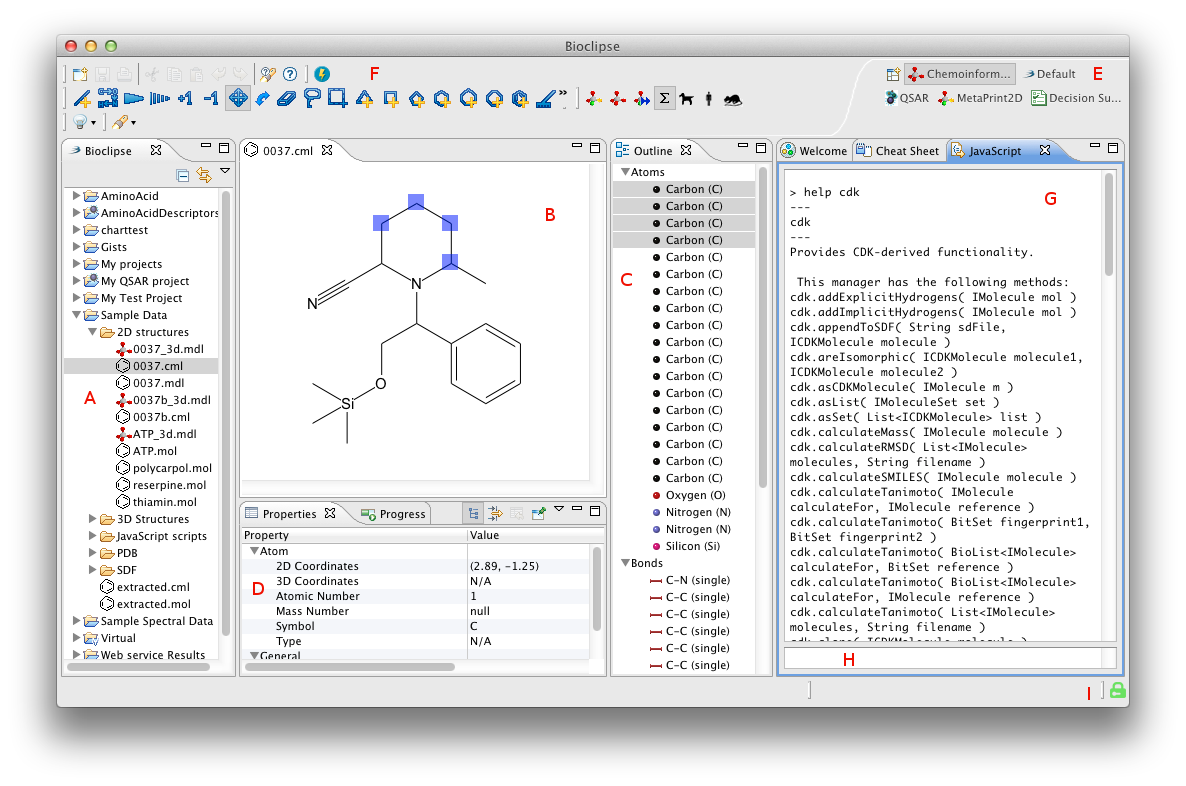
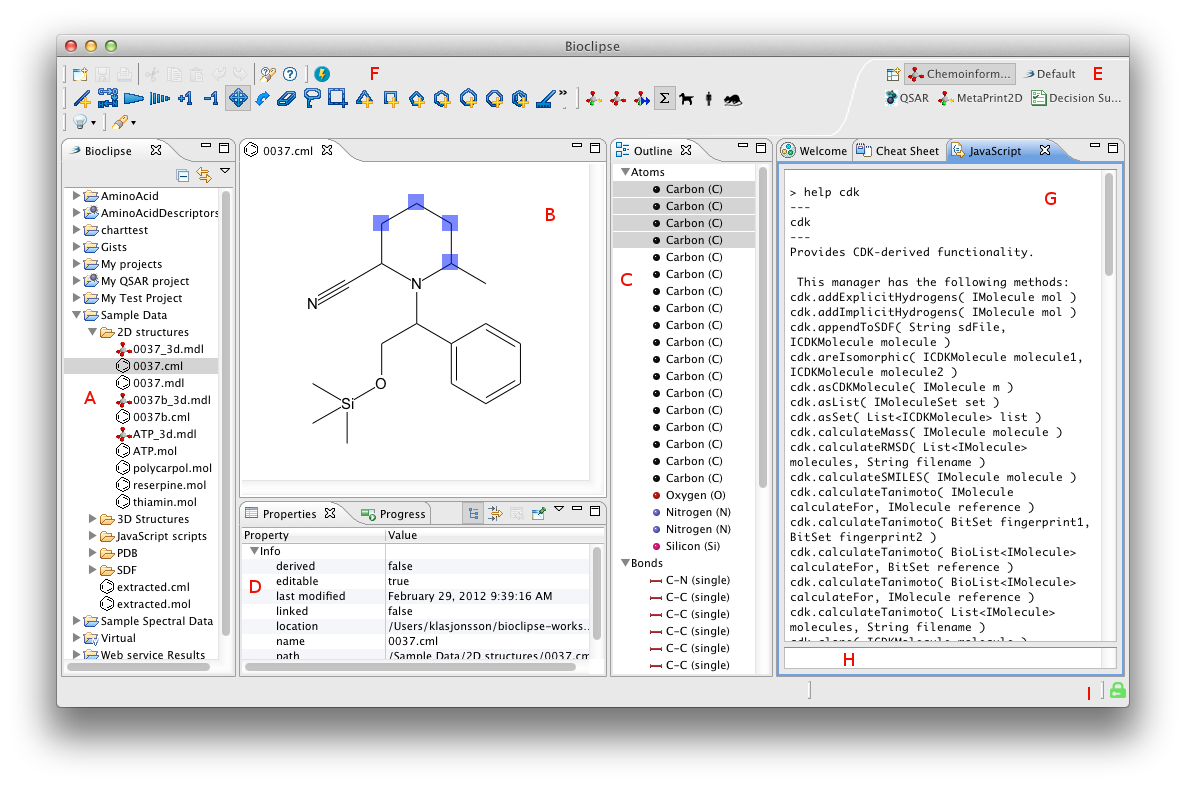
Removed the part about the 3D-view, updated the text and the image for the workbench overview help page

Changed region(s): [[0.1872, 0.6718, 0.4992, 0.855]]

diff --git a/plugins/net.bioclipse.ui/html/workbench/wb_overview.html b/plugins/net.bioclipse.ui/html/workbench/wb_overview.html
@@ -21,27 +21,14 @@
 </center>
 <p>
 <br>
-The Bioclipse Navigator (A) displays all projects in the workspace and allows for browsing all content. Double-click on a resource to open in an editor. In this example, a CML file with 2D coordinates has been double-clicked, and Bioclipse has opened the file in the JmolEditor (B). Click and hold mouse button while dragging in this editor to rotate molecule. The Outline (C) adapts to the current editor and displays all atoms in the file. Here 4 atoms has been selected in the Outline (hold down shift and click to select multiple entities) and are highlighted in blue in the Editor (B). The Properties view (D) display properties for, in this case, the  file selected in the Navigator (A). The Perspective Bar (E) allows for switching perspectives. Here the Cemoinformatics perspective is active. The Toolbar (F) displays common tasks for manipulating the files and the open Editor (like save, undo, redo etc). Views can be stacked on top of each other, like in (D) where the Progress view is located behind the Properties view. Just click the tab to bring a View to the front. The JavaScript Console (G) has an input field (H) where users can enter commands in JavaScript. The results of the command is echoed in the Text area above the input field. Here the JavaScript Console shows the result of the command &quot;help cdk&quot;, and lists the many commands available from the &quot;cdk&quot; namespace. The lower right corner contains a shortcut bar to access the many introductory resources of the Welcome page (I).
-
-<p>
-<br>
-<h2>Workbench parts for interactive 3D visualization</h2>
-<p>
-<br>
-
-<center>
-<img src="images/wb_jmol700.png">
-</center>
-<p>
-<br>
-
-Here, a file containing a molecule with 3D coordinates has been opened in the JChemPaint Editor (B). The Toolbar (F) now contains actions for editing and selecting in the 3D structure. Here, 4 atoms has been selected in the Outline (C) and the corresponding atoms are highlighted in the Editor (B) and properties of the selection are displayed in the Properties View (D).
-
-
-<p>
-<br>
-
-
+The Bioclipse Navigator (A) displays all projects in the workspace and allows for browsing all content. Double-click on a resource to open in an editor. In this example, a CML file with
+ 2D coordinates has been double-clicked, and Bioclipse has opened the file in the CMLEditor (B). The Outline (C) adapts to the current editor and displays all atoms in the file. 
+ Here 4 atoms has been selected in the Outline (hold down shift and click to select multiple entities) and are highlighted in blue in the Editor (B). The Properties view (D) display 
+ properties for, in this case, the  file selected in the Navigator (A). The Perspective Bar (E) allows for switching perspectives. Here the Chemoinformatics perspective is active. The 
+ Toolbar (F) displays common tasks for manipulating the files and the open Editor (like save, undo, redo etc). Views can be stacked on top of each other, like in (D) where the Progress 
+ view is located behind the Properties view. Just click the tab to bring a View to the front. The JavaScript Console (G) has an input field (H) where users can enter commands in 
+ JavaScript. The results of the command is echoed in the Text area above the input field. Here the JavaScript Console shows the result of the command &quot;help cdk&quot;, and lists 
+ the many commands available from the &quot;cdk&quot; namespace. The lower right corner contains a shortcut bar (I) to access different resources, in this case is only the login padlock visibly.
 
 <!-- ******************************** -->
 </body>
